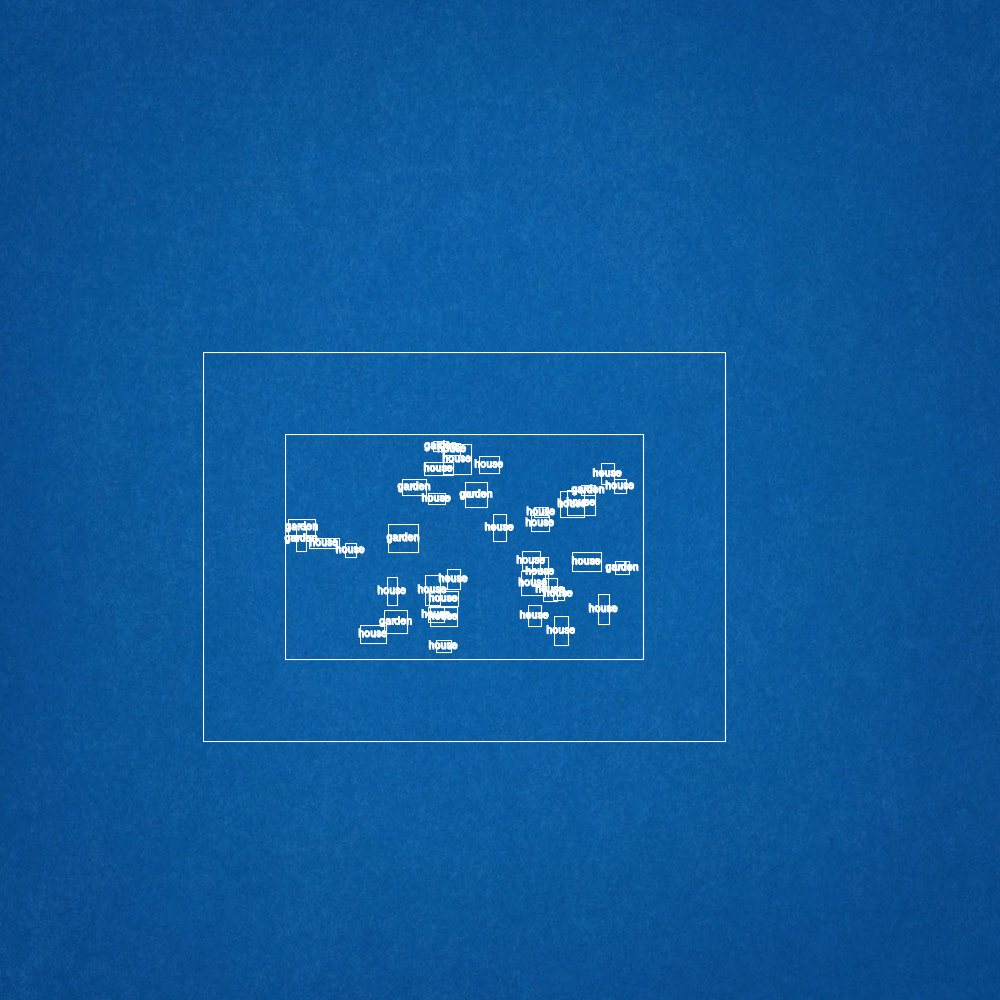
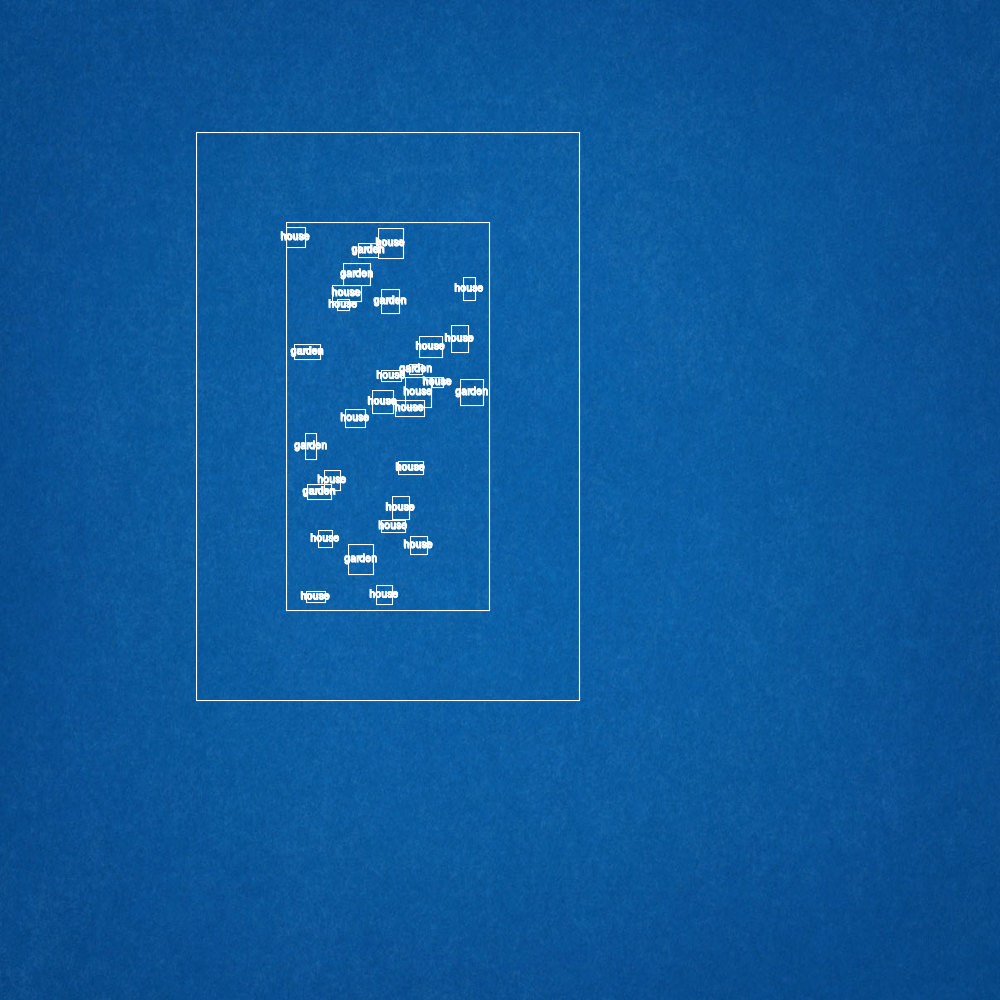
slightly smaller walls

diff --git a/index.js b/index.js
@@ -55,7 +55,7 @@ function createCastle(){
     }
   });
   var size = {
-    wh: randi(50,100)
+    wh: randi(25,50)
   }
   addRoom("",center.x - size.wh,center.y - size.wh, center.x2 + size.wh, center.y2 + size.wh);
 }
